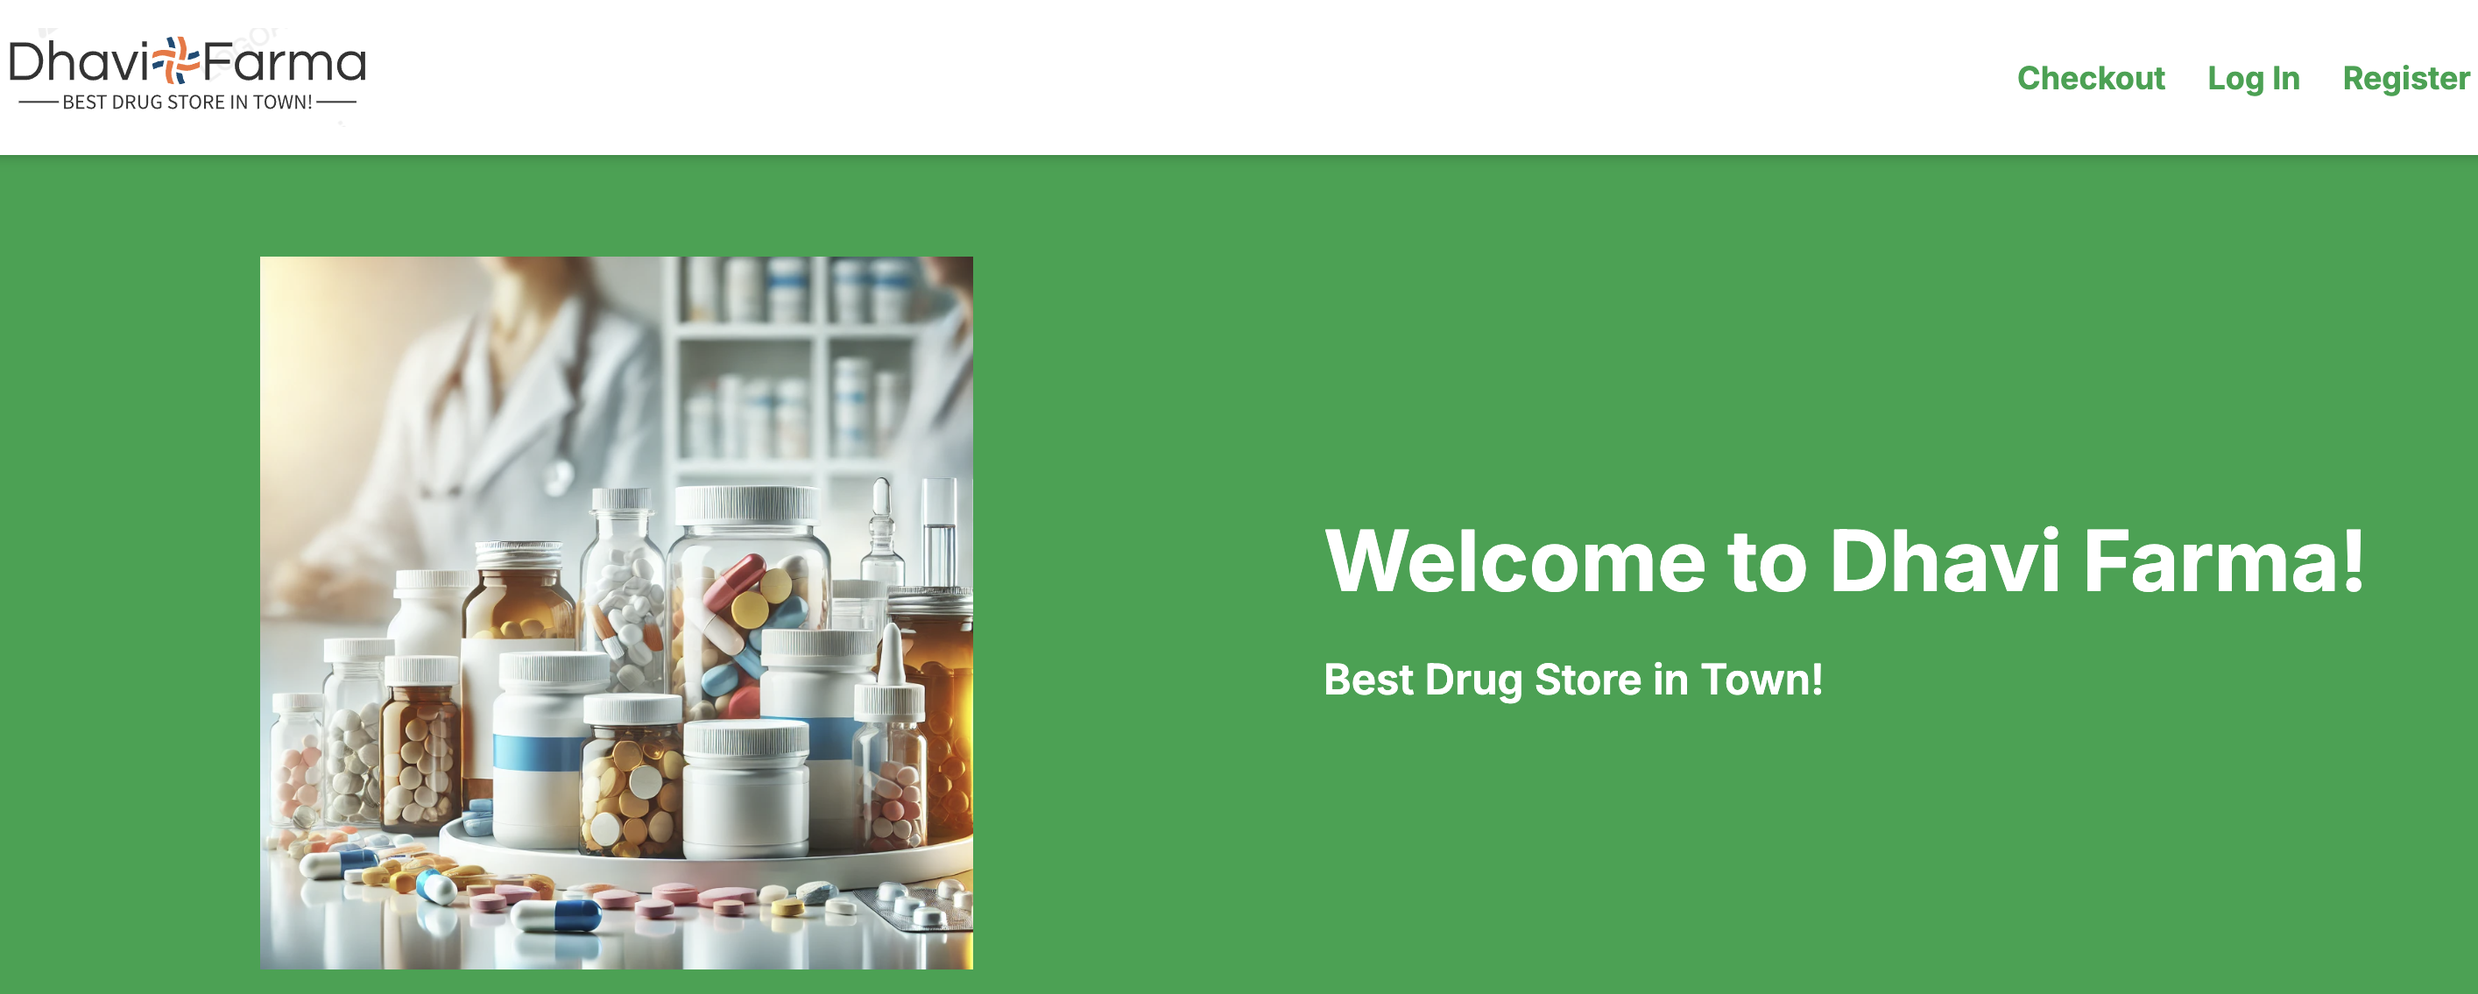
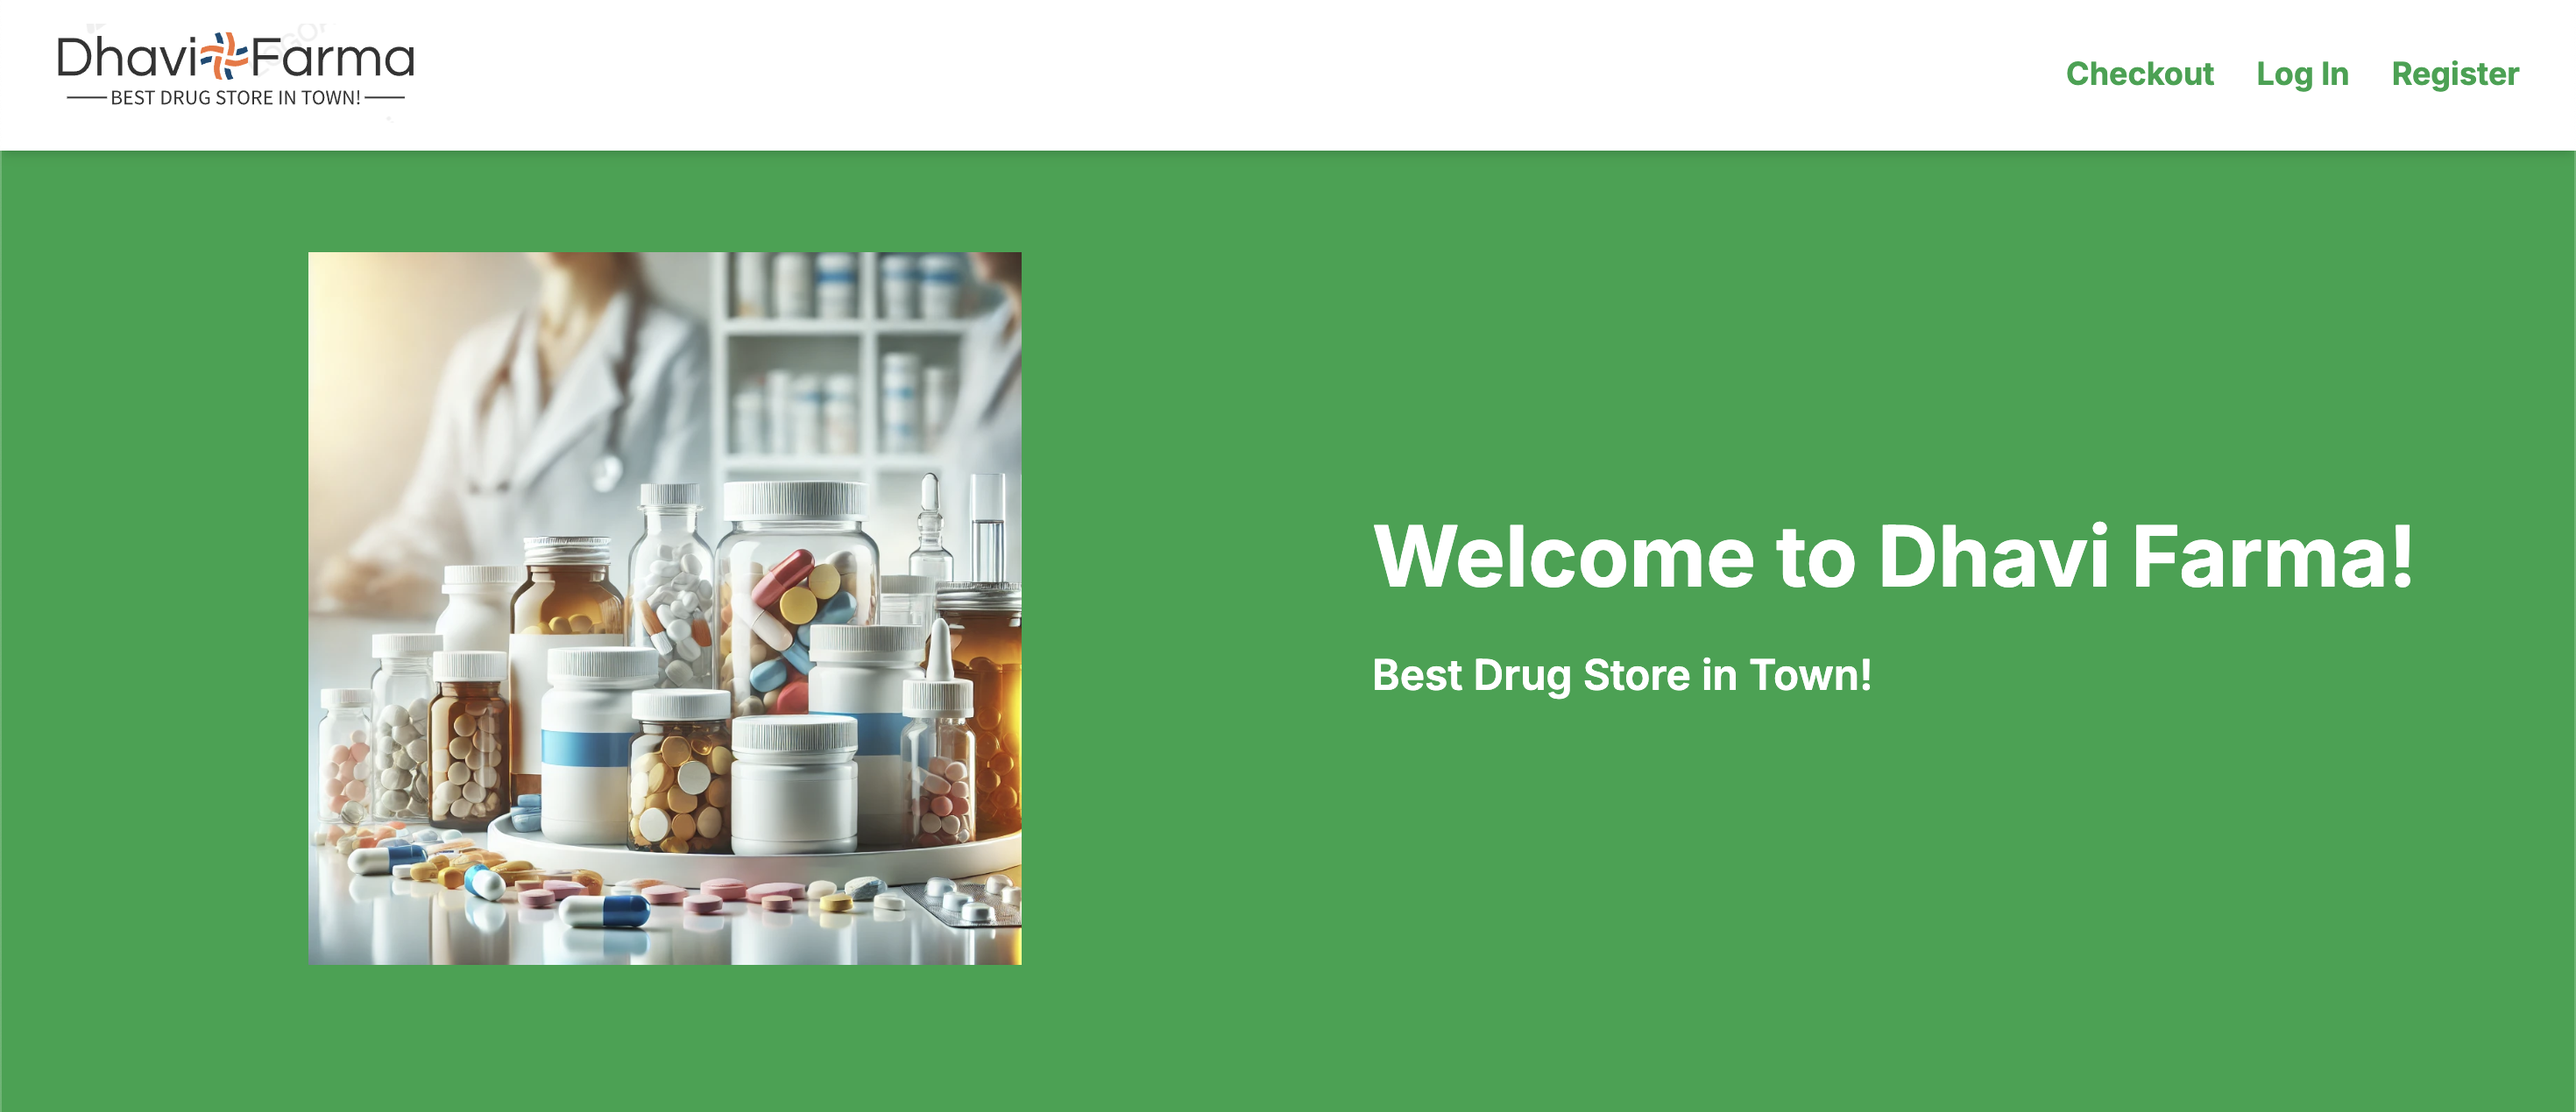
add: project kanban board

diff --git a/src/components/Projects.jsx b/src/components/Projects.jsx
@@ -4,6 +4,7 @@ import project2 from "../assets/2.png";
 import project3 from "../assets/3.png";
 import project4 from "../assets/4.png";
 import project5 from "../assets/5.png";
+import project6 from "../assets/6.png";
 import { motion } from "framer-motion";
 
 const Projects = () => {
@@ -21,6 +22,9 @@ const Projects = () => {
   };
   const handleClick5 = () => {
     window.location.href = "https://weather-app-cyan-seven-46.vercel.app/";
+  };
+  const handleClick6 = () => {
+    window.location.href = "https://rakamin-mini-project-eta.vercel.app/";
   };
 
   return (
@@ -115,6 +119,56 @@ const Projects = () => {
               frozen food products for you. Our mission is to provide delicious,
               convenient, and nutritious options that make meal preparation
               easier for you and your family.
+            </p>
+            <span className="mr-2 rounded bg-neutral-900 px-2 py-1 text-sm font-medium text-purple-700">
+              React.js
+            </span>
+            <span className="mr-2 rounded bg-neutral-900 px-2 py-1 text-sm font-medium text-purple-700">
+              Tailwind CSS
+            </span>
+            <span className="mr-2 rounded bg-neutral-900 px-2 py-1 text-sm font-medium text-purple-700">
+              TypeScript
+            </span>
+          </motion.div>
+        </div>
+      </div>
+      <div>
+        <div className="mb-8 flex flex-wrap lg:justify-center">
+          <motion.div
+            whileInView={{ opacity: 1, x: 0 }}
+            initial={{ opacity: 0, x: -100 }}
+            transition={{ duration: 1 }}
+            className="w-full lg:w-1/4"
+          >
+            <img
+              onClick={handleClick6}
+              src={project6}
+              width={280}
+              height={280}
+              alt="Project 6"
+              className="mb-6 rounded relative cursor-pointer"
+            />
+          </motion.div>
+          <motion.div
+            whileInView={{ opacity: 1, x: 0 }}
+            initial={{ opacity: 0, x: 100 }}
+            transition={{ duration: 1 }}
+            className="w-full max-w-xl lg:w-3/4"
+          >
+            <a
+              href="https://rakamin-mini-project-eta.vercel.app/"
+              target="_blank"
+              className="mb-2 font-semibold relative hover:text-purple-700"
+            >
+              Kanban Board
+            </a>
+            <p className="mb-4 text-neutral-400">
+              A Kanban board is a visual tool for project management with
+              columns representing stages of work, such as To Do, In Progress,
+              and Done. Each task is represented by a card that moves across
+              columns as progress is made. This board helps teams view the
+              overall work, identify bottlenecks, and improve process
+              efficiency.
             </p>
             <span className="mr-2 rounded bg-neutral-900 px-2 py-1 text-sm font-medium text-purple-700">
               React.js

diff --git a/src/components/Navbar.jsx b/src/components/Navbar.jsx
@@ -17,7 +17,7 @@ const Navbar = () => {
   return (
     <nav className="mb-20 flex items-center justify-between py-6 relative">
       <div className="flex flex-shrink-0 items-center">
-        <img src={logo} alt="logo" className="w-10 mx-2" />
+        <img src={logo} alt="logo" className="w-14 mx-2" />
       </div>
       <div className="hidden md:flex">
         <ul className="flex z-10 items-center gap-8 text-sm relative">
